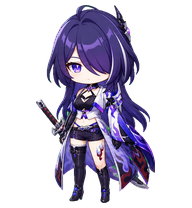
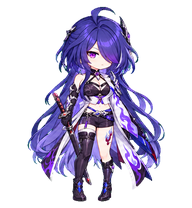
Remake Acheron with normal and ultimate forms (#14)
Use normal purple-haired idle and gaze poses, plus white-haired ultimate movement and task reactions with the approved sword grip. Preserve the existing pet identity and six-frame gallery idle override.

diff --git a/script.js b/script.js
@@ -75,12 +75,13 @@ const pets = [
     series: "starrail",
     name: { zh: "黄泉", en: "Acheron" },
     description: {
-      zh: "《崩坏：星穹铁道》黄泉的精美 Q 版宠物，冷艳沉静，携长刀并带有红白雷光拔刀演出。",
-      en: "A polished chibi Acheron with a cool composure, long blade, and red-and-white lightning draw animation."
+      zh: "《崩坏：星穹铁道》黄泉的精修同人 Q 版 Codex 宠物：紫发常态待机与十六向注视，白发赤眸终结技形态演绎移动、招呼及任务反应，包含九种状态动画。",
+      en: "A refined fan-made chibi Codex pet of Acheron from Honkai: Star Rail: purple-haired normal form for idle and sixteen gaze directions, and her white-haired crimson ultimate form for movement, greetings and task reactions across nine animated states."
     },
     licenseType: "fan-noncommercial",
     contributor: "YaKun9",
-    color: "244, 86, 132"
+    color: "210, 35, 61",
+    idleFrameCount: 6
   },
   {
     id: "wuthering-waves-iuno",

diff --git a/README_EN.md b/README_EN.md
@@ -18,7 +18,7 @@ The pet index is ordered by the commit time when each pet first entered `main`, 
 | <img src="./naruto-six-paths/preview.webp" alt="Six Paths Naruto" width="72"> | Six Paths Naruto | `naruto-six-paths` | 2 | A chibi animated pet of Naruto in Six Paths Sage Mode, featuring a striking golden chakra cloak and Six Paths markings, with a brave and warmhearted presence. | [GitXMING](https://github.com/GitXMING) | [View](./naruto-six-paths/) |
 | <img src="./honkai-star-rail-yaoguang-yaoyao/preview.webp" alt="Yaoguang · Yaoyao" width="72"> | Yaoguang · Yaoyao | `honkai-star-rail-yaoguang-yaoyao` | 2 | A chibi Codex pet inspired by Yaoguang's Yaoyao-themed shake interaction in *Honkai: Star Rail*, retaining her long silver-white hair, teal-blue peacock-feather ornaments, and ornate Xianzhou attire. | [YaKun9](https://github.com/YaKun9) | [View](./honkai-star-rail-yaoguang-yaoyao/) |
 | <img src="./wuthering-waves-iuno/preview.webp" alt="Iuno" width="72"> | Iuno | `wuthering-waves-iuno` | 2 | An elegant chibi Codex pet based on Iuno from *Wuthering Waves*, preserving her deep-blue gradient hair, golden headpiece, and moon-ring motif. | [yanhuuo](https://github.com/yanhuuo) | [View](./wuthering-waves-iuno/) |
-| <img src="./honkai-star-rail-acheron/preview.webp" alt="Acheron" width="72"> | Acheron | `honkai-star-rail-acheron` | 2 | A polished official-design-inspired chibi Codex pet of Acheron from *Honkai: Star Rail*, featuring her cool composure, long blade, and a red-and-white ultimate draw animation. | [YaKun9](https://github.com/YaKun9) | [View](./honkai-star-rail-acheron/) |
+| <img src="./honkai-star-rail-acheron/preview.webp" alt="Acheron" width="72"> | Acheron | `honkai-star-rail-acheron` | 2 | A refined fan-made chibi Codex pet of Acheron from Honkai: Star Rail: purple-haired normal form for idle and sixteen gaze directions, and her white-haired crimson ultimate form for movement, greetings and task reactions across nine animated states. | [YaKun9](https://github.com/YaKun9) | [View](./honkai-star-rail-acheron/) |
 | <img src="./wuthering-waves-suisui/preview.webp" alt="Suisui" width="72"> | Suisui | `wuthering-waves-suisui` | 2 | A gentle and lively chibi Codex pet based on Suisui from *Wuthering Waves*, preserving her gold-and-white hair, long white-and-gold qipao front panel, blue-and-gold sleeves, water fan, and red ornaments. | [mizunagare](https://github.com/mizunagare) | [View](./wuthering-waves-suisui/) |
 | <img src="./wuthering-waves-aemeath/preview.webp" alt="Aemeath" width="72"> | Aemeath | `wuthering-waves-aemeath` | 2 | A polished chibi Codex pet based on Aemeath from *Wuthering Waves*, preserving her long pink ponytail, golden eyes, cyan crystalline hair ornaments, and white-blue starry pilot outfit. | [mizunagare](https://github.com/mizunagare) | [View](./wuthering-waves-aemeath/) |
 | <img src="./original-taotao/preview.webp" alt="Taotao" width="72"> | Taotao | `original-taotao` | 2 | Taotao is an original IT mascot for the developer community, featuring short black hair, a radiant smile, and a black hoodie, with upbeat suspender-dance moves that bring energy and companionship to every coding session. | [GitXMING](https://github.com/GitXMING) | [View](./original-taotao/) |

diff --git a/README.md b/README.md
@@ -18,7 +18,7 @@
 | <img src="./naruto-six-paths/preview.webp" alt="六道鸣人" width="72"> | 六道鸣人 | `naruto-six-paths` | 2 | 鸣人六道仙人形态的 Q 版动画宠物，金色查克拉外衣与六道纹样醒目，勇敢而温暖。 | [GitXMING](https://github.com/GitXMING) | [查看](./naruto-six-paths/) |
 | <img src="./honkai-star-rail-yaoguang-yaoyao/preview.webp" alt="爻光·摇摇" width="72"> | 爻光·摇摇 | `honkai-star-rail-yaoguang-yaoyao` | 2 | 《崩坏：星穹铁道》爻光的联名摇一摇灵感 Q 版 Codex 宠物，保留银白长发、青蓝孔雀羽饰与仙舟华丽装束。 | [YaKun9](https://github.com/YaKun9) | [查看](./honkai-star-rail-yaoguang-yaoyao/) |
 | <img src="./wuthering-waves-iuno/preview.webp" alt="尤诺" width="72"> | 尤诺 | `wuthering-waves-iuno` | 2 | 《鸣潮》月相主题共鸣者尤诺的灵动优雅 Q 版 Codex 宠物，保留深蓝渐变长发、金色头饰与月环意象。 | [yanhuuo](https://github.com/yanhuuo) | [查看](./wuthering-waves-iuno/) |
-| <img src="./honkai-star-rail-acheron/preview.webp" alt="黄泉" width="72"> | 黄泉 | `honkai-star-rail-acheron` | 2 | 《崩坏：星穹铁道》黄泉的精美官方设定风 Q 版 Codex 宠物，冷艳沉静，携长刀并带有红白雷光拔刀演出。 | [YaKun9](https://github.com/YaKun9) | [查看](./honkai-star-rail-acheron/) |
+| <img src="./honkai-star-rail-acheron/preview.webp" alt="黄泉" width="72"> | 黄泉 | `honkai-star-rail-acheron` | 2 | 《崩坏：星穹铁道》黄泉的精修同人 Q 版 Codex 宠物：紫发常态待机与十六向注视，白发赤眸终结技形态演绎移动、招呼及任务反应，包含九种状态动画。 | [YaKun9](https://github.com/YaKun9) | [查看](./honkai-star-rail-acheron/) |
 | <img src="./wuthering-waves-suisui/preview.webp" alt="穗穗" width="72"> | 穗穗 | `wuthering-waves-suisui` | 2 | 《鸣潮》穗穗的温婉灵动 Q 版 Codex 宠物，保留金白长发、白金长旗袍前襟、蓝金水袖、水扇与红色饰件。 | [mizunagare](https://github.com/mizunagare) | [查看](./wuthering-waves-suisui/) |
 | <img src="./wuthering-waves-aemeath/preview.webp" alt="爱弥斯" width="72"> | 爱弥斯 | `wuthering-waves-aemeath` | 2 | 《鸣潮》爱弥斯的星海歌姬风 Q 版 Codex 宠物，保留粉色长马尾、金色眼眸、青色晶体发饰与白蓝星空驾驶员礼服。 | [mizunagare](https://github.com/mizunagare) | [查看](./wuthering-waves-aemeath/) |
 | <img src="./original-taotao/preview.webp" alt="涛涛" width="72"> | 涛涛 | `original-taotao` | 2 | 涛涛是一个面向开发者社区的原创 IT 吉祥物，拥有短黑发、灿烂笑容和黑色连帽衫，以阳光开朗的形象与活力十足的背带舞陪伴每一次编码。 | [GitXMING](https://github.com/GitXMING) | [查看](./original-taotao/) |

diff --git a/honkai-star-rail-acheron/LICENSE.md b/honkai-star-rail-acheron/LICENSE.md
@@ -2,6 +2,7 @@
 
 - 投稿者 / Contributor: YaKun9
 - 宠物 / Pet: 黄泉 / Acheron
+- 重制 / Remake: 2026-10-05，AI 辅助创作的常态与终结技双形态重制 / AI-assisted normal/ultimate dual-form remake
 - 来源 / Based on: 《崩坏：星穹铁道》黄泉 / Acheron from *Honkai: Star Rail*
 
 投稿者已授权 codex-pets 仓库收录本目录素材，并允许用户在适用法律和相关权利人规则允许的范围内，以非商业目的下载、使用、复制、修改和分享这些素材，包括克隆或 Fork 完整仓库、提交 Pull Request，以及安装到个人 Codex 环境中。
@@ -11,3 +12,13 @@ The contributor has authorized the codex-pets repository to include the assets i
 分享时必须保留本文件及其中的来源和署名信息。不得将这些素材用于商业用途、出售、付费分发或转授权。本许可仅覆盖投稿者实际拥有的创作部分。底层角色、名称、设定、商标及其他相关权利仍归各自权利人所有。本项目与相关权利人不存在隶属、赞助或官方授权关系。
 
 Any sharing must retain this file and its source and attribution information. The assets may not be used commercially, sold, distributed for a fee, or sublicensed. This permission covers only the original expression owned by the contributor. Rights in the underlying character, name, design, trademarks, and related properties remain with their respective rights holders. This project is not affiliated with, sponsored by, or officially endorsed by those rights holders.
+
+## 角色参考 / Character references
+
+- Official Acheron character preview and ultimate animation: https://www.miyoushe.com/sr/article/50477670
+
+- Official Acheron trailer, “Your Color”: https://www.youtube.com/watch?v=IQQPDPAvxTg
+- Official gameplay showcase: https://www.youtube.com/watch?v=Y9vz34wximk
+
+本次重制保留原宠物 ID 与目录，使用重新生成的同人图像；未将游戏截图或官方原始素材作为可下载宠物文件发布。
+This remake preserves the original pet ID and directory and uses newly generated fan artwork. Game screenshots and original official assets are not distributed as pet files.
